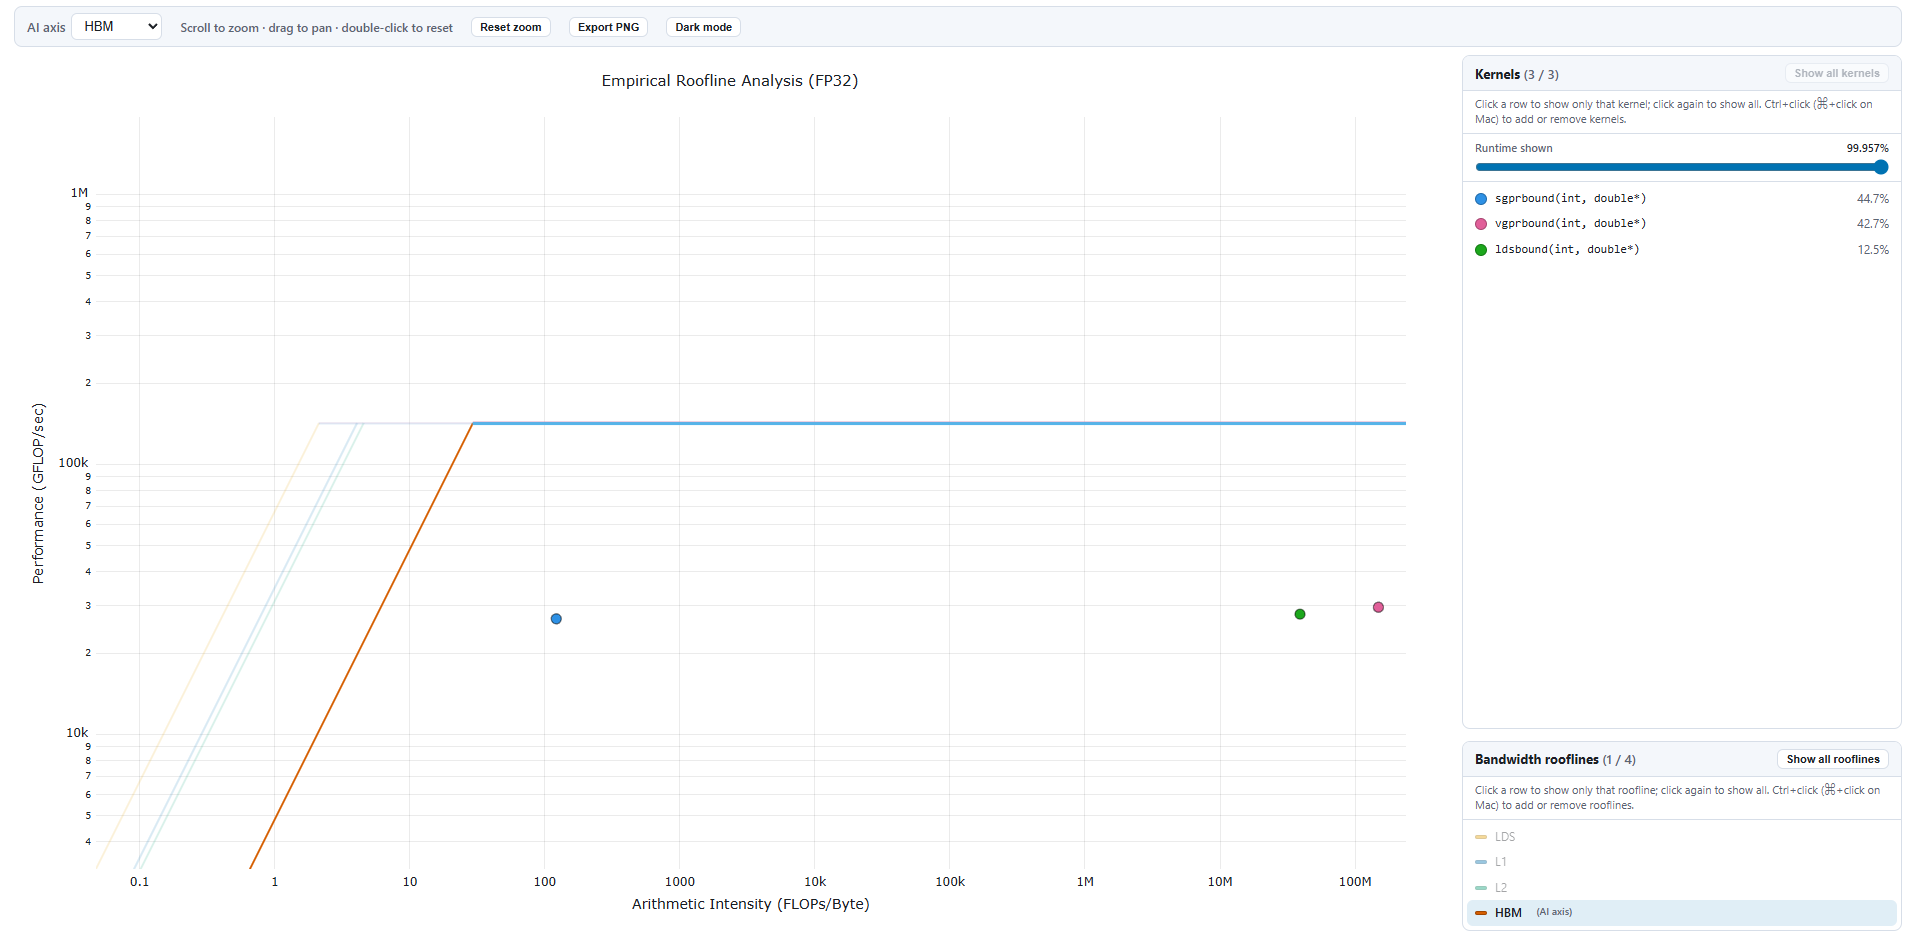
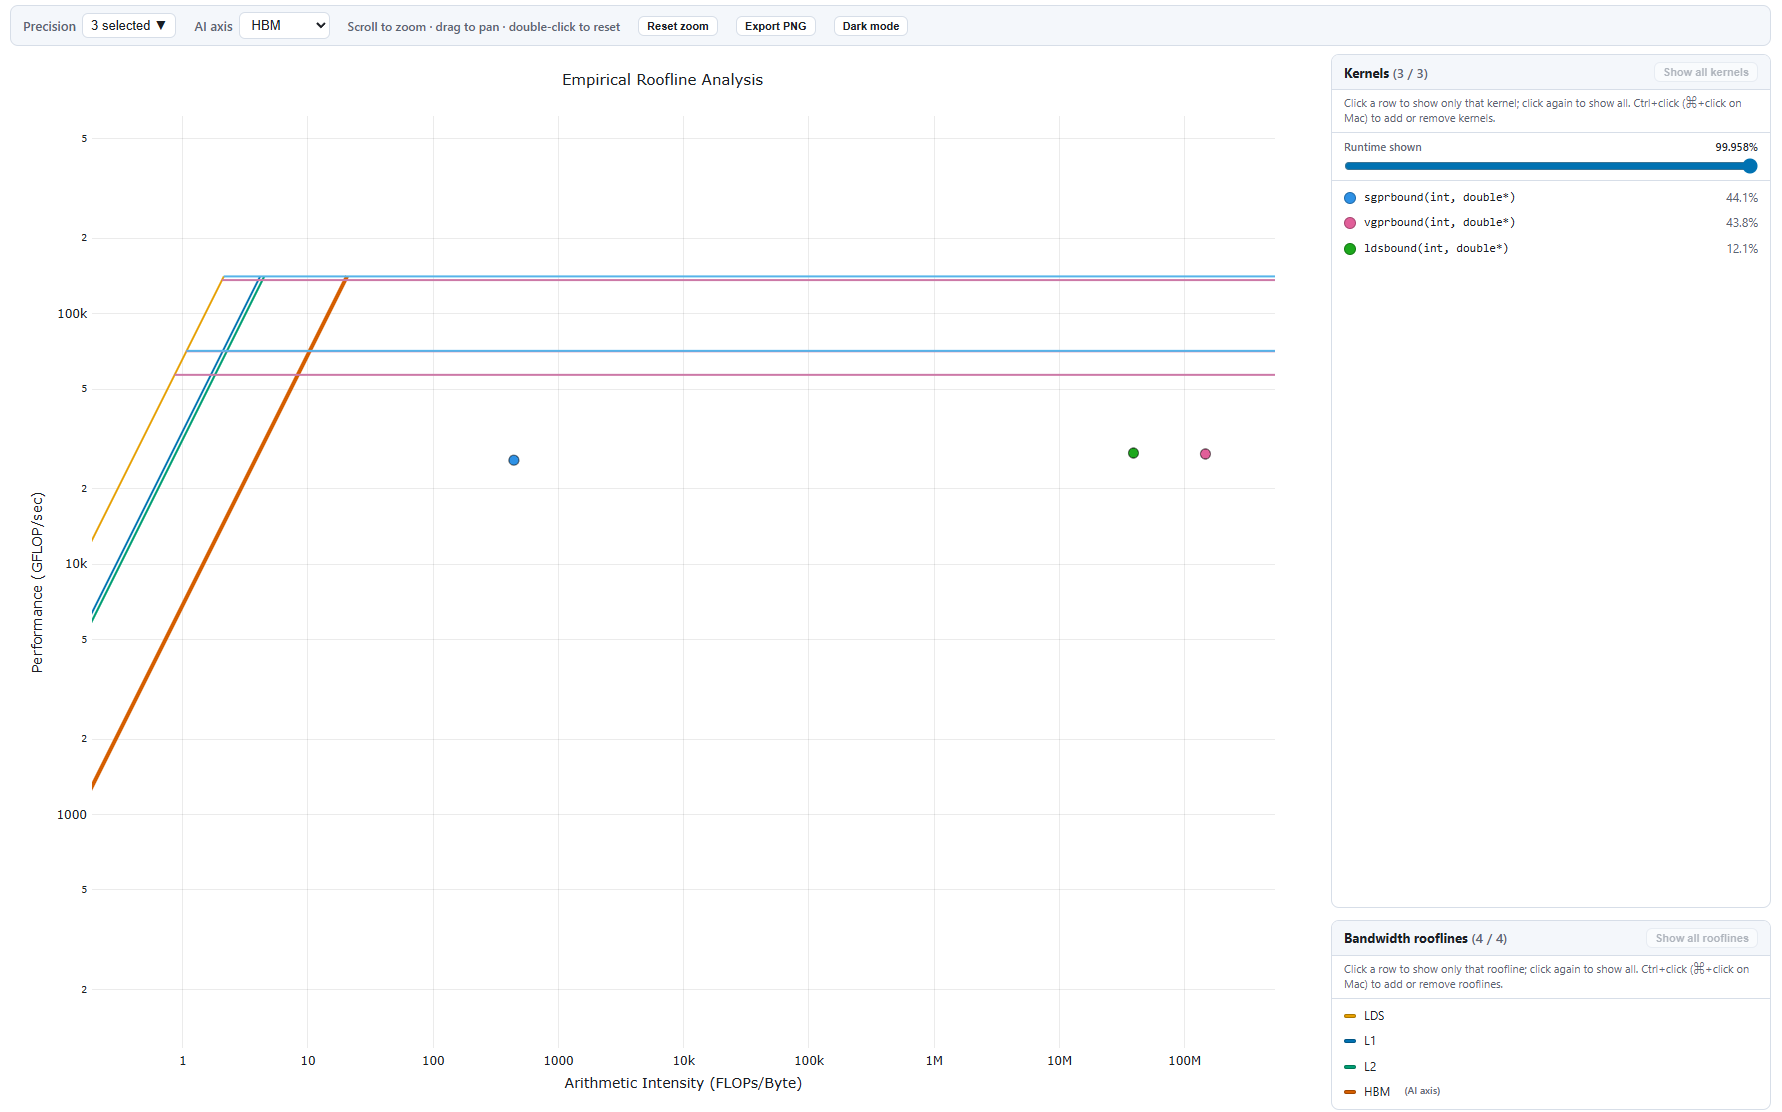
Updated roofline html plot: * does not reset zoom ewhen changing precisions. * made precision a dropdown checkbox select to support multiple precisions at a time. * fixed memory bandwidth roof lines not extending when changing precisions, now dynamically changes to lengthen to highest peak compute r

diff --git a/projects/rocprofiler-compute/src/roofline/assets/roofline_plot.js b/projects/rocprofiler-compute/src/roofline/assets/roofline_plot.js
@@ -51,7 +51,9 @@
 
   // ---- DOM handles --------------------------------------------------------
   var gd = document.getElementById(model.divId);
-  var precisionSelect = document.getElementById("roofline-precision-select");
+  var precisionBtn = document.getElementById("roofline-precision-btn");
+  var precisionMenu = document.getElementById("roofline-precision-menu");
+  var precisionLabel = document.getElementById("roofline-precision-label");
   var peakSelect = document.getElementById("roofline-peak-select");
   var peakControl = document.getElementById("roofline-peak-control");
   var peakControlTitle = peakControl ? peakControl.title : "";
@@ -106,7 +108,7 @@
   });
 
   var state = {
-    precision: precisions[0] || "",
+    precisions: new Set([precisions.indexOf("FP32") !== -1 ? "FP32" : (precisions[0] || "")]),
     peak: model.defaultPeak || ALL_PEAKS_VALUE,
     selected: new Set(),
     isolatedRoofs: new Set(),
@@ -277,7 +279,7 @@
       var source = computeTraces.find(function (trace) {
         return trace.traceIndex === overlay.sourceTraceIndex;
       });
-      if (isolating && refBw && source && source.dtype === state.precision) {
+      if (isolating && refBw && source && state.precisions.has(source.dtype)) {
         var left = overlay.peakPerf / refBw;
         xs.push([left, ROOF_EXTREME_MAX_AI]);
         ys.push([overlay.peakPerf, overlay.peakPerf]);
@@ -315,6 +317,48 @@
     updateCeilings();
   }
 
+  function topVisibleComputePeak() {
+    var max = 0;
+    computeTraces.forEach(function (trace) {
+      if (state.precisions.has(trace.dtype) && trace.peakPerf > max) {
+        max = trace.peakPerf;
+      }
+    });
+    return max;
+  }
+
+  function updateBandwidthRooflines() {
+    if (!plotlyReady() || !rooflineTraces.length) {
+      return;
+    }
+    var topPeak = topVisibleComputePeak();
+    if (!(topPeak > 0)) {
+      return;
+    }
+    var indices = [];
+    var xs = [];
+    var ys = [];
+    rooflineTraces.forEach(function (roof) {
+      if (!(roof.bandwidth > 0)) {
+        return;
+      }
+      var traceData = gd.data[roof.traceIndex];
+      if (!traceData || !traceData.x || !traceData.y) {
+        return;
+      }
+      var newX = traceData.x.slice();
+      var newY = traceData.y.slice();
+      newX[newX.length - 1] = topPeak / roof.bandwidth;
+      newY[newY.length - 1] = topPeak;
+      indices.push(roof.traceIndex);
+      xs.push(newX);
+      ys.push(newY);
+    });
+    if (indices.length) {
+      Plotly.restyle(gd, { x: xs, y: ys }, indices);
+    }
+  }
+
   function applyPrecision() {
     if (!plotlyReady()) {
       return;
@@ -323,13 +367,13 @@
       gd,
       {
         visible: computeTraces.map(function (trace) {
-          return trace.dtype === state.precision;
+          return state.precisions.has(trace.dtype);
         }),
       },
       computeCeilingIndices
     );
+    updateBandwidthRooflines();
     updateCeilings();
-    resetView();
   }
 
   var lastEmphasizedLevel;
@@ -1225,17 +1269,35 @@
     peakSelect.value = state.peak;
   }
 
+  function updatePrecisionLabel() {
+    if (!precisionLabel) {
+      return;
+    }
+    if (state.precisions.size === precisions.length) {
+      precisionLabel.textContent = "All";
+    } else if (state.precisions.size === 1) {
+      precisionLabel.textContent = Array.from(state.precisions)[0];
+    } else {
+      precisionLabel.textContent = state.precisions.size + " selected";
+    }
+  }
+
   function buildPrecisionOptions() {
-    if (!precisionSelect) {
+    if (!precisionMenu) {
       return;
     }
     precisions.forEach(function (precision) {
-      var option = document.createElement("option");
-      option.value = precision;
-      option.textContent = precision;
-      precisionSelect.appendChild(option);
+      var item = document.createElement("label");
+      item.className = "roofline-precision-item";
+      var cb = document.createElement("input");
+      cb.type = "checkbox";
+      cb.value = precision;
+      cb.checked = state.precisions.has(precision);
+      item.appendChild(cb);
+      item.appendChild(document.createTextNode(precision));
+      precisionMenu.appendChild(item);
     });
-    precisionSelect.value = state.precision;
+    updatePrecisionLabel();
   }
 
   function buildKernelPanel() {
@@ -1353,10 +1415,30 @@
   }
 
   function wireEvents() {
-    if (precisionSelect) {
-      precisionSelect.addEventListener("change", function () {
-        state.precision = precisionSelect.value;
+    if (precisionBtn && precisionMenu) {
+      precisionBtn.addEventListener("click", function (e) {
+        e.stopPropagation();
+        var opening = precisionMenu.hidden;
+        precisionMenu.hidden = !opening;
+        precisionBtn.setAttribute("aria-expanded", String(opening));
+      });
+      precisionMenu.addEventListener("change", function (e) {
+        if (e.target.type !== "checkbox") {
+          return;
+        }
+        if (e.target.checked) {
+          state.precisions.add(e.target.value);
+        } else {
+          state.precisions.delete(e.target.value);
+        }
+        updatePrecisionLabel();
         applyPrecision();
+      });
+      document.addEventListener("click", function () {
+        if (!precisionMenu.hidden) {
+          precisionMenu.hidden = true;
+          precisionBtn.setAttribute("aria-expanded", "false");
+        }
       });
     }
     if (peakSelect) {

diff --git a/projects/rocprofiler-compute/src/roofline/assets/roofline_plot.css b/projects/rocprofiler-compute/src/roofline/assets/roofline_plot.css
@@ -373,6 +373,66 @@ body {
   white-space: nowrap;
 }
 
+.roofline-precision-dropdown {
+  position: relative;
+  display: inline-block;
+}
+
+.roofline-precision-btn {
+  display: inline-flex;
+  align-items: center;
+  gap: 4px;
+  font-size: 13px;
+  font-weight: 500;
+  color: var(--roofline-text);
+  padding: 4px 8px;
+  border: 1px solid var(--roofline-border);
+  border-radius: 6px;
+  background: var(--roofline-surface);
+  cursor: pointer;
+  white-space: nowrap;
+}
+
+.roofline-precision-btn:hover {
+  border-color: var(--roofline-accent);
+  color: var(--roofline-accent);
+}
+
+.roofline-precision-menu {
+  position: absolute;
+  top: calc(100% + 4px);
+  left: 0;
+  z-index: 200;
+  min-width: 120px;
+  background: var(--roofline-surface);
+  border: 1px solid var(--roofline-border);
+  border-radius: 6px;
+  box-shadow: 0 4px 12px rgba(0, 0, 0, 0.15);
+  padding: 4px 0;
+}
+
+.roofline-precision-item {
+  display: flex;
+  align-items: center;
+  gap: 6px;
+  width: 100%;
+  padding: 5px 10px;
+  font-size: 13px;
+  font-weight: 500;
+  color: var(--roofline-text);
+  cursor: pointer;
+  user-select: none;
+}
+
+.roofline-precision-item:hover {
+  background: var(--roofline-bg-soft);
+}
+
+.roofline-precision-item input[type="checkbox"] {
+  accent-color: var(--roofline-accent);
+  cursor: pointer;
+}
+
 @media (max-width: 900px) {
   .roofline-body {
     flex-direction: column;

diff --git a/projects/rocprofiler-compute/src/roofline/assets/roofline_plot.html b/projects/rocprofiler-compute/src/roofline/assets/roofline_plot.html
@@ -16,11 +16,17 @@ if (window.matchMedia && window.matchMedia("(prefers-color-scheme: dark)").match
 <body>
 <div class="roofline-app">
   <div class="roofline-toolbar">
-    <label class="roofline-control" for="roofline-precision-select">Precision
-      <select id="roofline-precision-select"
-              aria-label="Arithmetic precision to display">
-      </select>
-    </label>
+    <div class="roofline-control">Precision
+      <div class="roofline-precision-dropdown">
+        <button type="button" id="roofline-precision-btn"
+                class="roofline-precision-btn"
+                aria-haspopup="true" aria-expanded="false">
+          <span id="roofline-precision-label">All</span>&#9660;
+        </button>
+        <div class="roofline-precision-menu" id="roofline-precision-menu"
+             hidden></div>
+      </div>
+    </div>
     <label class="roofline-control" id="roofline-peak-control"
            for="roofline-peak-select"
            title="${PEAK_TITLE}">AI axis

diff --git a/projects/rocprofiler-compute/src/roofline/roofline_main.py b/projects/rocprofiler-compute/src/roofline/roofline_main.py
@@ -750,8 +750,6 @@ class Roofline:
 
         if is_new_figure:
             self._apply_plotly_layout(fig, dtype, ops_flops, (x_lo, x_hi, y_lo, y_hi))
-        else:
-            self._extend_stacked_title(fig, dtype)
 
         return fig
 
@@ -968,7 +966,7 @@ class Roofline:
         fig.update_layout(
             template="plotly_white",
             title=dict(
-                text=f"Empirical Roofline Analysis ({dtype})",
+                text="Empirical Roofline Analysis",
                 x=0.5,
                 xanchor="center",
                 font=dict(size=15),
@@ -985,17 +983,6 @@ class Roofline:
                 font=dict(size=13, color="#1b1f24"),
             ),
         )
-
-    def _extend_stacked_title(self, fig: go.Figure, dtype: str) -> None:
-        """Extend an existing figure's title to list every stacked datatype."""
-        if not fig.layout.title.text:
-            return
-        title_text = fig.layout.title.text
-        if "(" in title_text and ")" in title_text:
-            prefix = title_text.split("(")[0]
-            existing_types = title_text.split("(")[1].split(")")[0]
-            if dtype not in existing_types.split(", "):
-                fig.layout.title.text = f"{prefix}({existing_types}, {dtype})"
 
     def cli_generate_plot(
         self,

diff --git a/projects/rocprofiler-compute/tests/integration/test_roofline_analyze.py b/projects/rocprofiler-compute/tests/integration/test_roofline_analyze.py
@@ -49,10 +49,6 @@ def test_analyze_generates_roofline_html(
     html_files = list(Path(workload_dir).glob("empirRoof_*.html"))
     assert [html_file.name for html_file in html_files] == ["empirRoof_gpu-0.html"]
 
-    html_text = html_files[0].read_text(encoding="utf-8")
-    assert "roofline-precision-select" in html_text
-    assert "FP32" in html_text
-
     common.clean_output_dir(config["cleanup"], workload_dir)
 
 
@@ -76,11 +72,6 @@ def test_analyze_roofline_datatype_independently(
             dtype,
         ])
         assert code == 0
-
-        html_path = Path(workload_dir) / "empirRoof_gpu-0.html"
-        html_text = html_path.read_text(encoding="utf-8")
-        assert "roofline-precision-select" in html_text
-        assert dtype in html_text
 
     html_files = list(Path(workload_dir).glob("empirRoof_*.html"))
     assert [html_file.name for html_file in html_files] == ["empirRoof_gpu-0.html"]

diff --git a/projects/rocprofiler-compute/docs/how-to/analyze/cli.rst b/projects/rocprofiler-compute/docs/how-to/analyze/cli.rst
@@ -522,8 +522,7 @@ Roofline visualization options (available only in analyze mode):
 * ``--sort``: Overlay top kernels or top dispatches (default: kernels)
 * ``--mem-level``: Filter by memory level -- HBM, L2, vL1D, L0, LDS (default: ALL)
 * ``--roofline-data-type``: Choose datatypes for roofline visualization (default: FP32)
-   * Multiple data types are available from one generated HTML file through the
-     *Precision* selector.
+   * CLI only supports visualizing one precision at a time. Visualizing multiple data types on one plot is available in the Interactive Roofline HTML file. 
 
 Example with multiple ``--mem-level`` and ``--roofline-data-type`` options:
 
@@ -534,7 +533,7 @@ Example with multiple ``--mem-level`` and ``--roofline-data-type`` options:
 Interactive Roofline HTML:
 
 * Use the *AI axis* selector to choose one memory level per kernel, or *All peaks* to plot every level at once. Isolating one kernel shows it across all available memory levels.
-* Use the *Precision* selector to switch between the datatypes requested with ``--roofline-data-type`` without opening another file or rerunning analysis.
+* Use the *Precision* selector to choose one or more arithmetic precision's peak roofline to display on the plot.
 * Use the *Kernels* and *Bandwidth rooflines* panels to isolate, multi-select, or reset plotted items. The *Runtime shown* slider filters to the heaviest kernels that reach the selected GPU resident-time cutoff.
 * Hover over kernel dots and rooflines to see arithmetic intensity, throughput, roofline percentage, limiter, runtime, bandwidth, and compute-peak details.
 * Drag to pan, scroll to zoom, double-click or use *Reset zoom* to re-frame the chart, use *Export PNG* to save the current view, and use *Theme toggle* to switch between light and dark modes.
